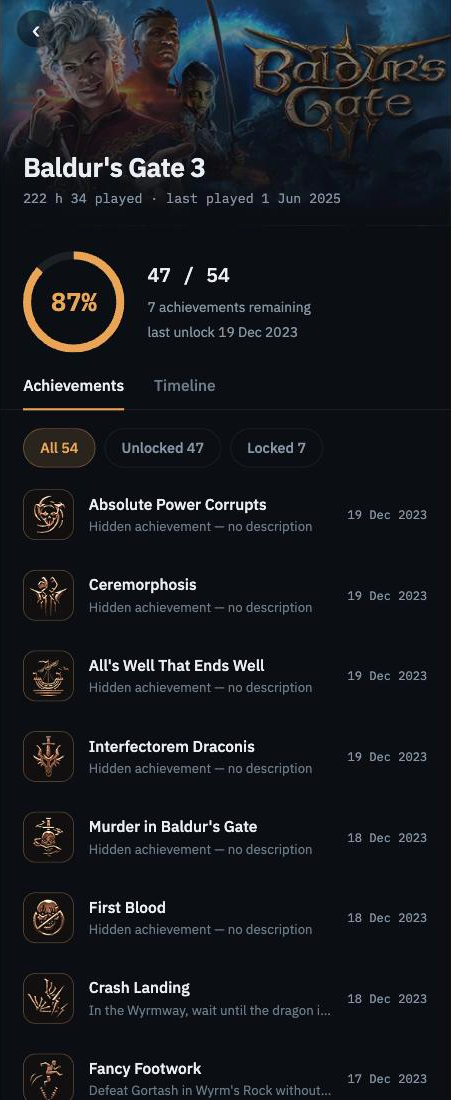
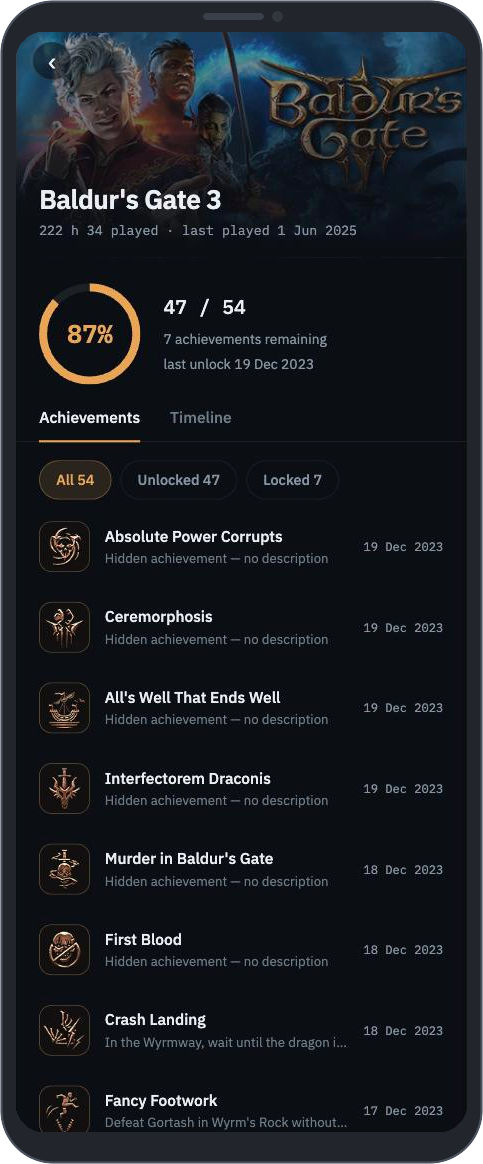
docs: wrap the README screenshots in a phone body
GitHub strips the CSS that would draw a frame, so the bezel is composited
into the PNG itself. The framed file replaces the raw capture rather than
sitting beside it: one image per screen, nothing to rebuild, nothing to
drift. frame-phone.sh reproduces it from the next capture.

Claude-Session: https://claude.ai/code/session_01VDajBdTugJ8QtD84GB5Y4W

diff --git a/docs/images/README.md b/docs/images/README.md
@@ -1,0 +1,30 @@
+# The screenshots in the README
+
+`library.png` and `game.png` are the two screens the main README shows, and each one is a raw
+capture already wrapped in a phone bezel by `frame-phone.sh`.
+
+**The bezel is baked into the PNG on purpose.** GitHub strips `style` attributes and `<style>`
+blocks out of a README, so there is no border-radius, no shadow and no frame to be had in
+markup: an image either arrives with its frame or it does not get one.
+
+**The framed file is the only file.** The raw capture is not kept beside it, which is what keeps
+the two from drifting apart — there is no second image to forget to rebuild, and no command
+anyone has to remember to run. The price is that the bezel cannot be re-styled without
+re-capturing the screen.
+
+## Replacing a screenshot
+
+Capture the screen, then frame the capture before committing it:
+
+```sh
+./frame-phone.sh ~/Desktop/capture.png library.png
+```
+
+Pass the **raw** capture. Running the script over `library.png` would put a bezel around the
+bezel, and the result looks almost right, which is the problem with it.
+
+The script needs ImageMagick 7 (`brew install imagemagick`). Nothing in the repository depends
+on it — no test, no workflow, no other command — so it costs nothing to not have installed until
+the day a screenshot changes.
+
+Captures run about 450 px wide; the README lays the two out side by side at 46% each.

diff --git a/docs/commands.md b/docs/commands.md
@@ -111,6 +111,17 @@ drifted from their sources without anyone knowing (#134).
 `tools/icon-build/src/recipes.ts` says what each image comes from, including the three that look
 as though they could come from `icon.svg` and cannot.
 
+`docs/images/` holds the two screenshots the README shows, each one already wrapped in a phone
+bezel — GitHub strips the CSS that would draw one, so the frame has to be inside the PNG.
+
+```sh
+cd docs/images && ./frame-phone.sh ~/Desktop/capture.png library.png
+```
+
+Run it only when a screenshot changes, over the **raw** capture. Nothing drifts if you never
+run it: the framed file is the only file, with no source beside it to fall out of step.
+[docs/images/README.md](./images/README.md) says why it was built that way.
+
 ### The ones whose output stays outside the repository
 
 ```sh
